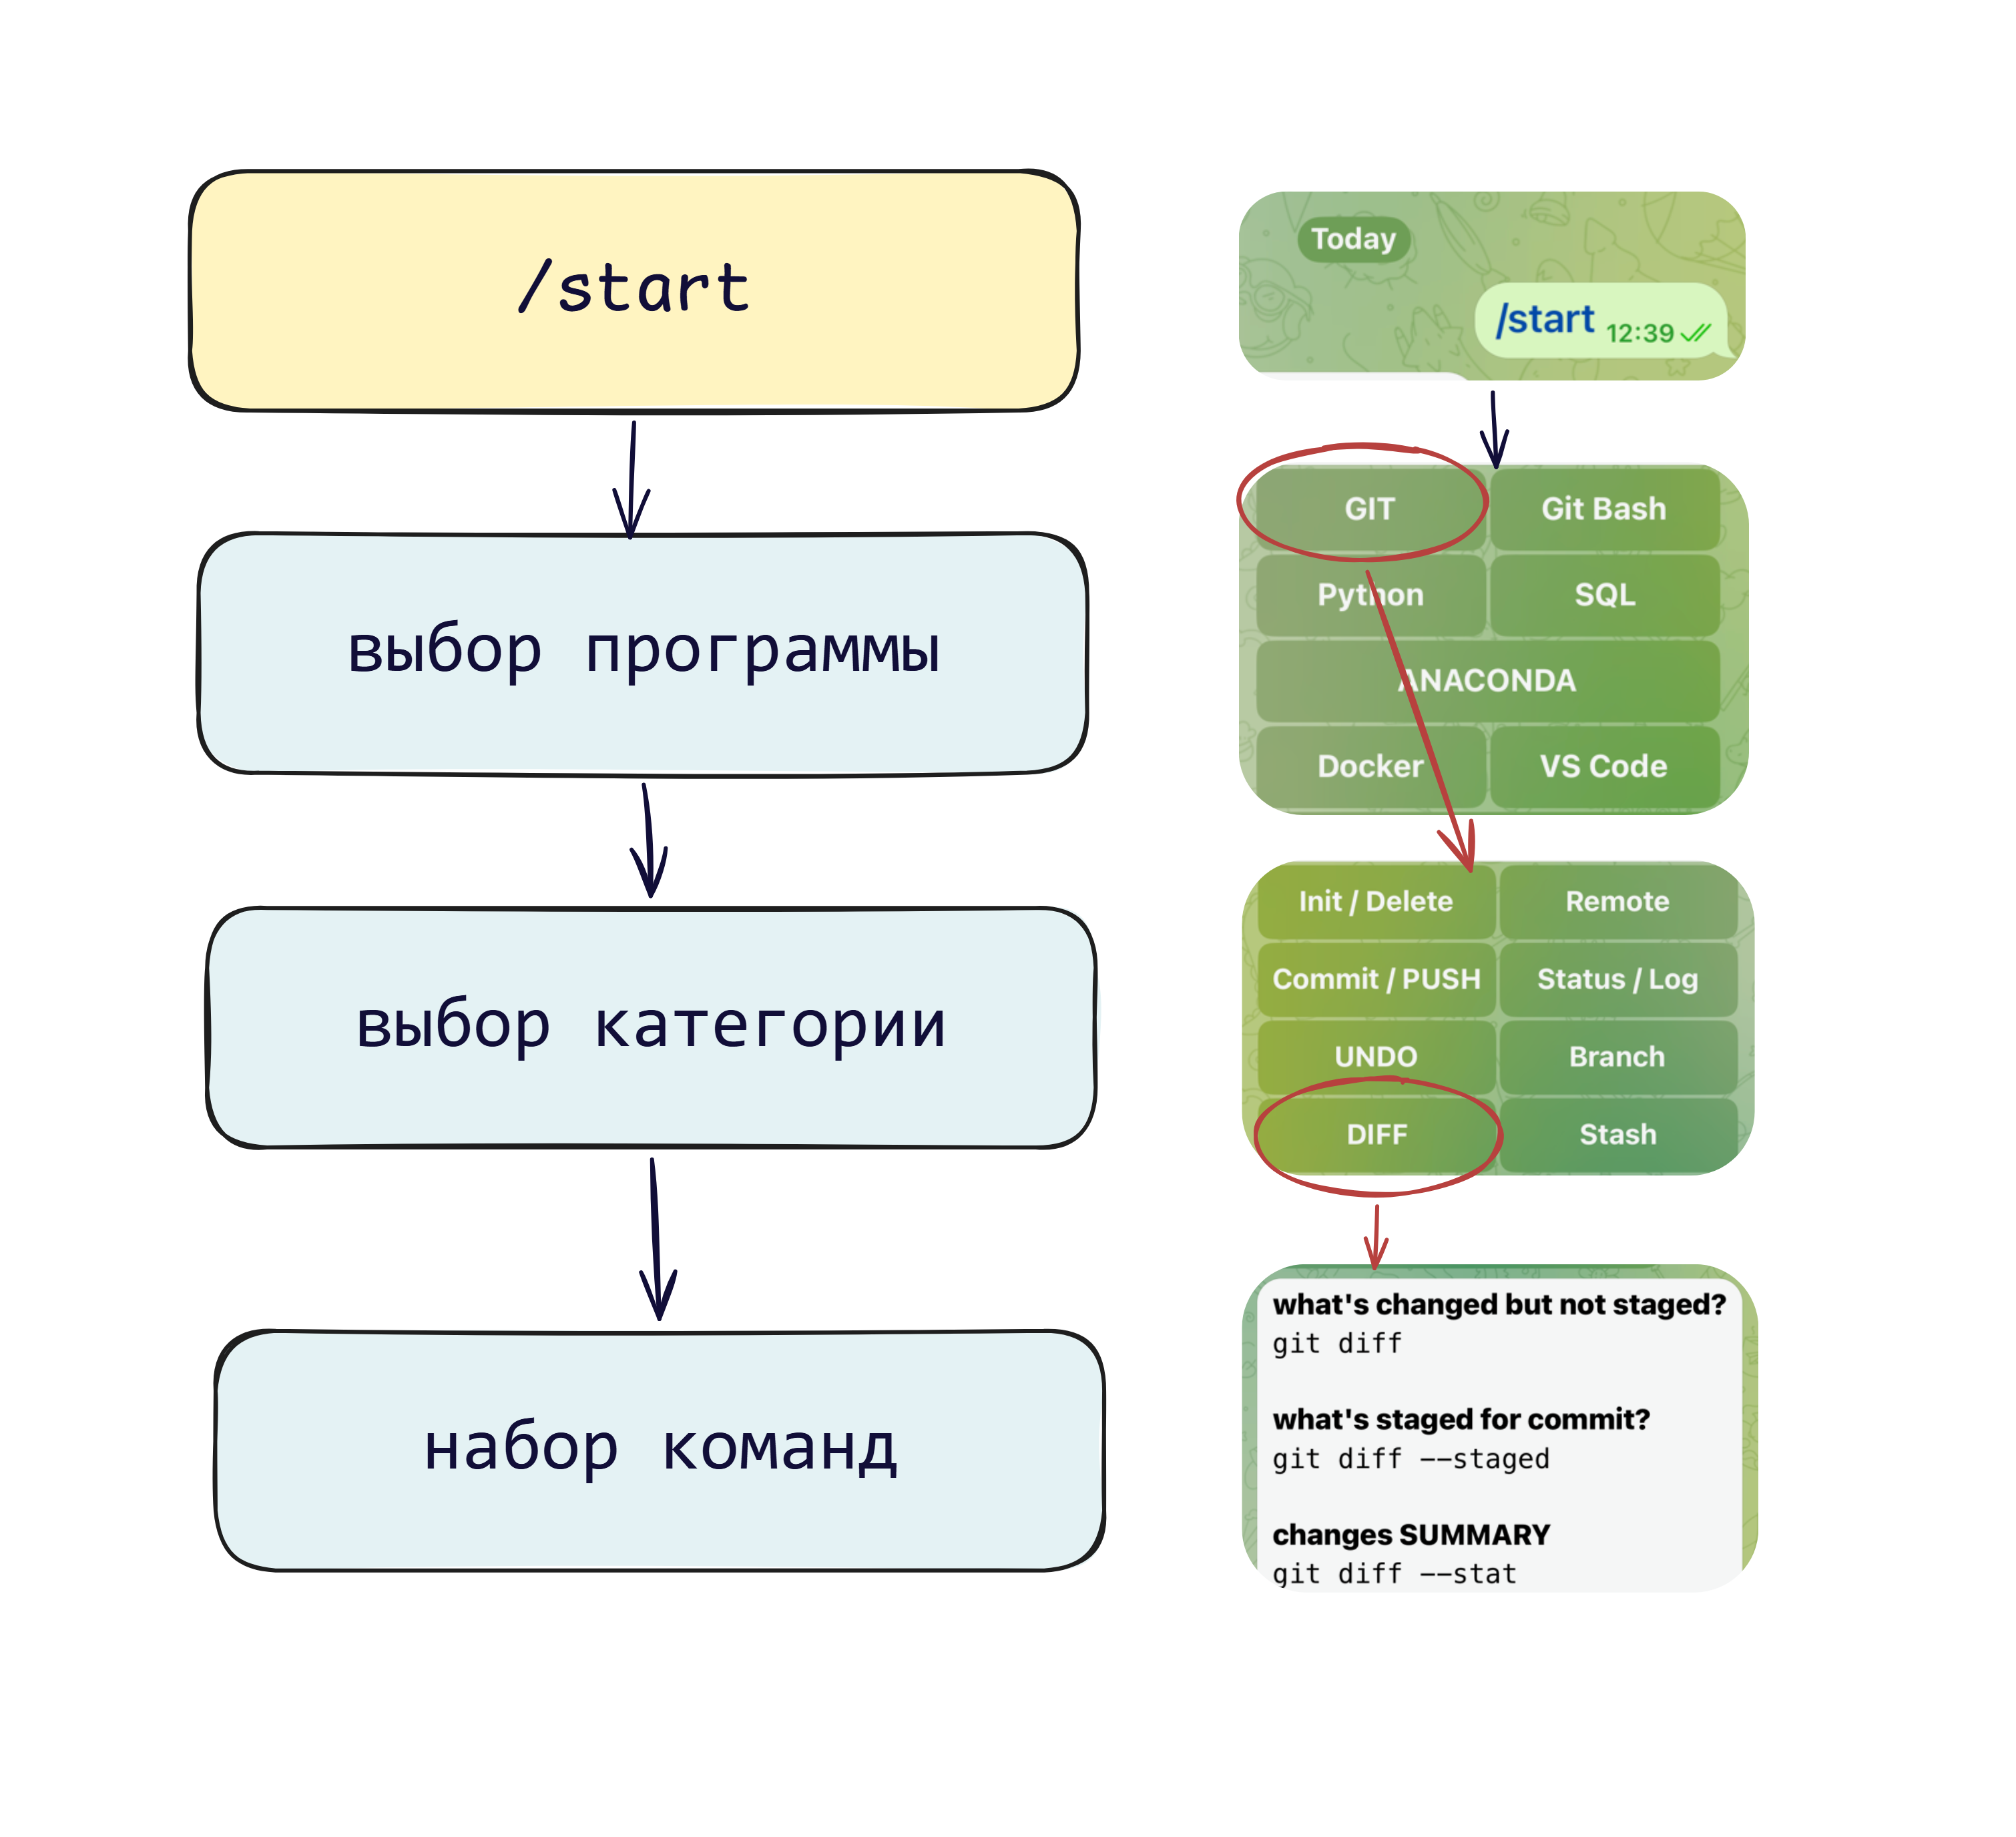
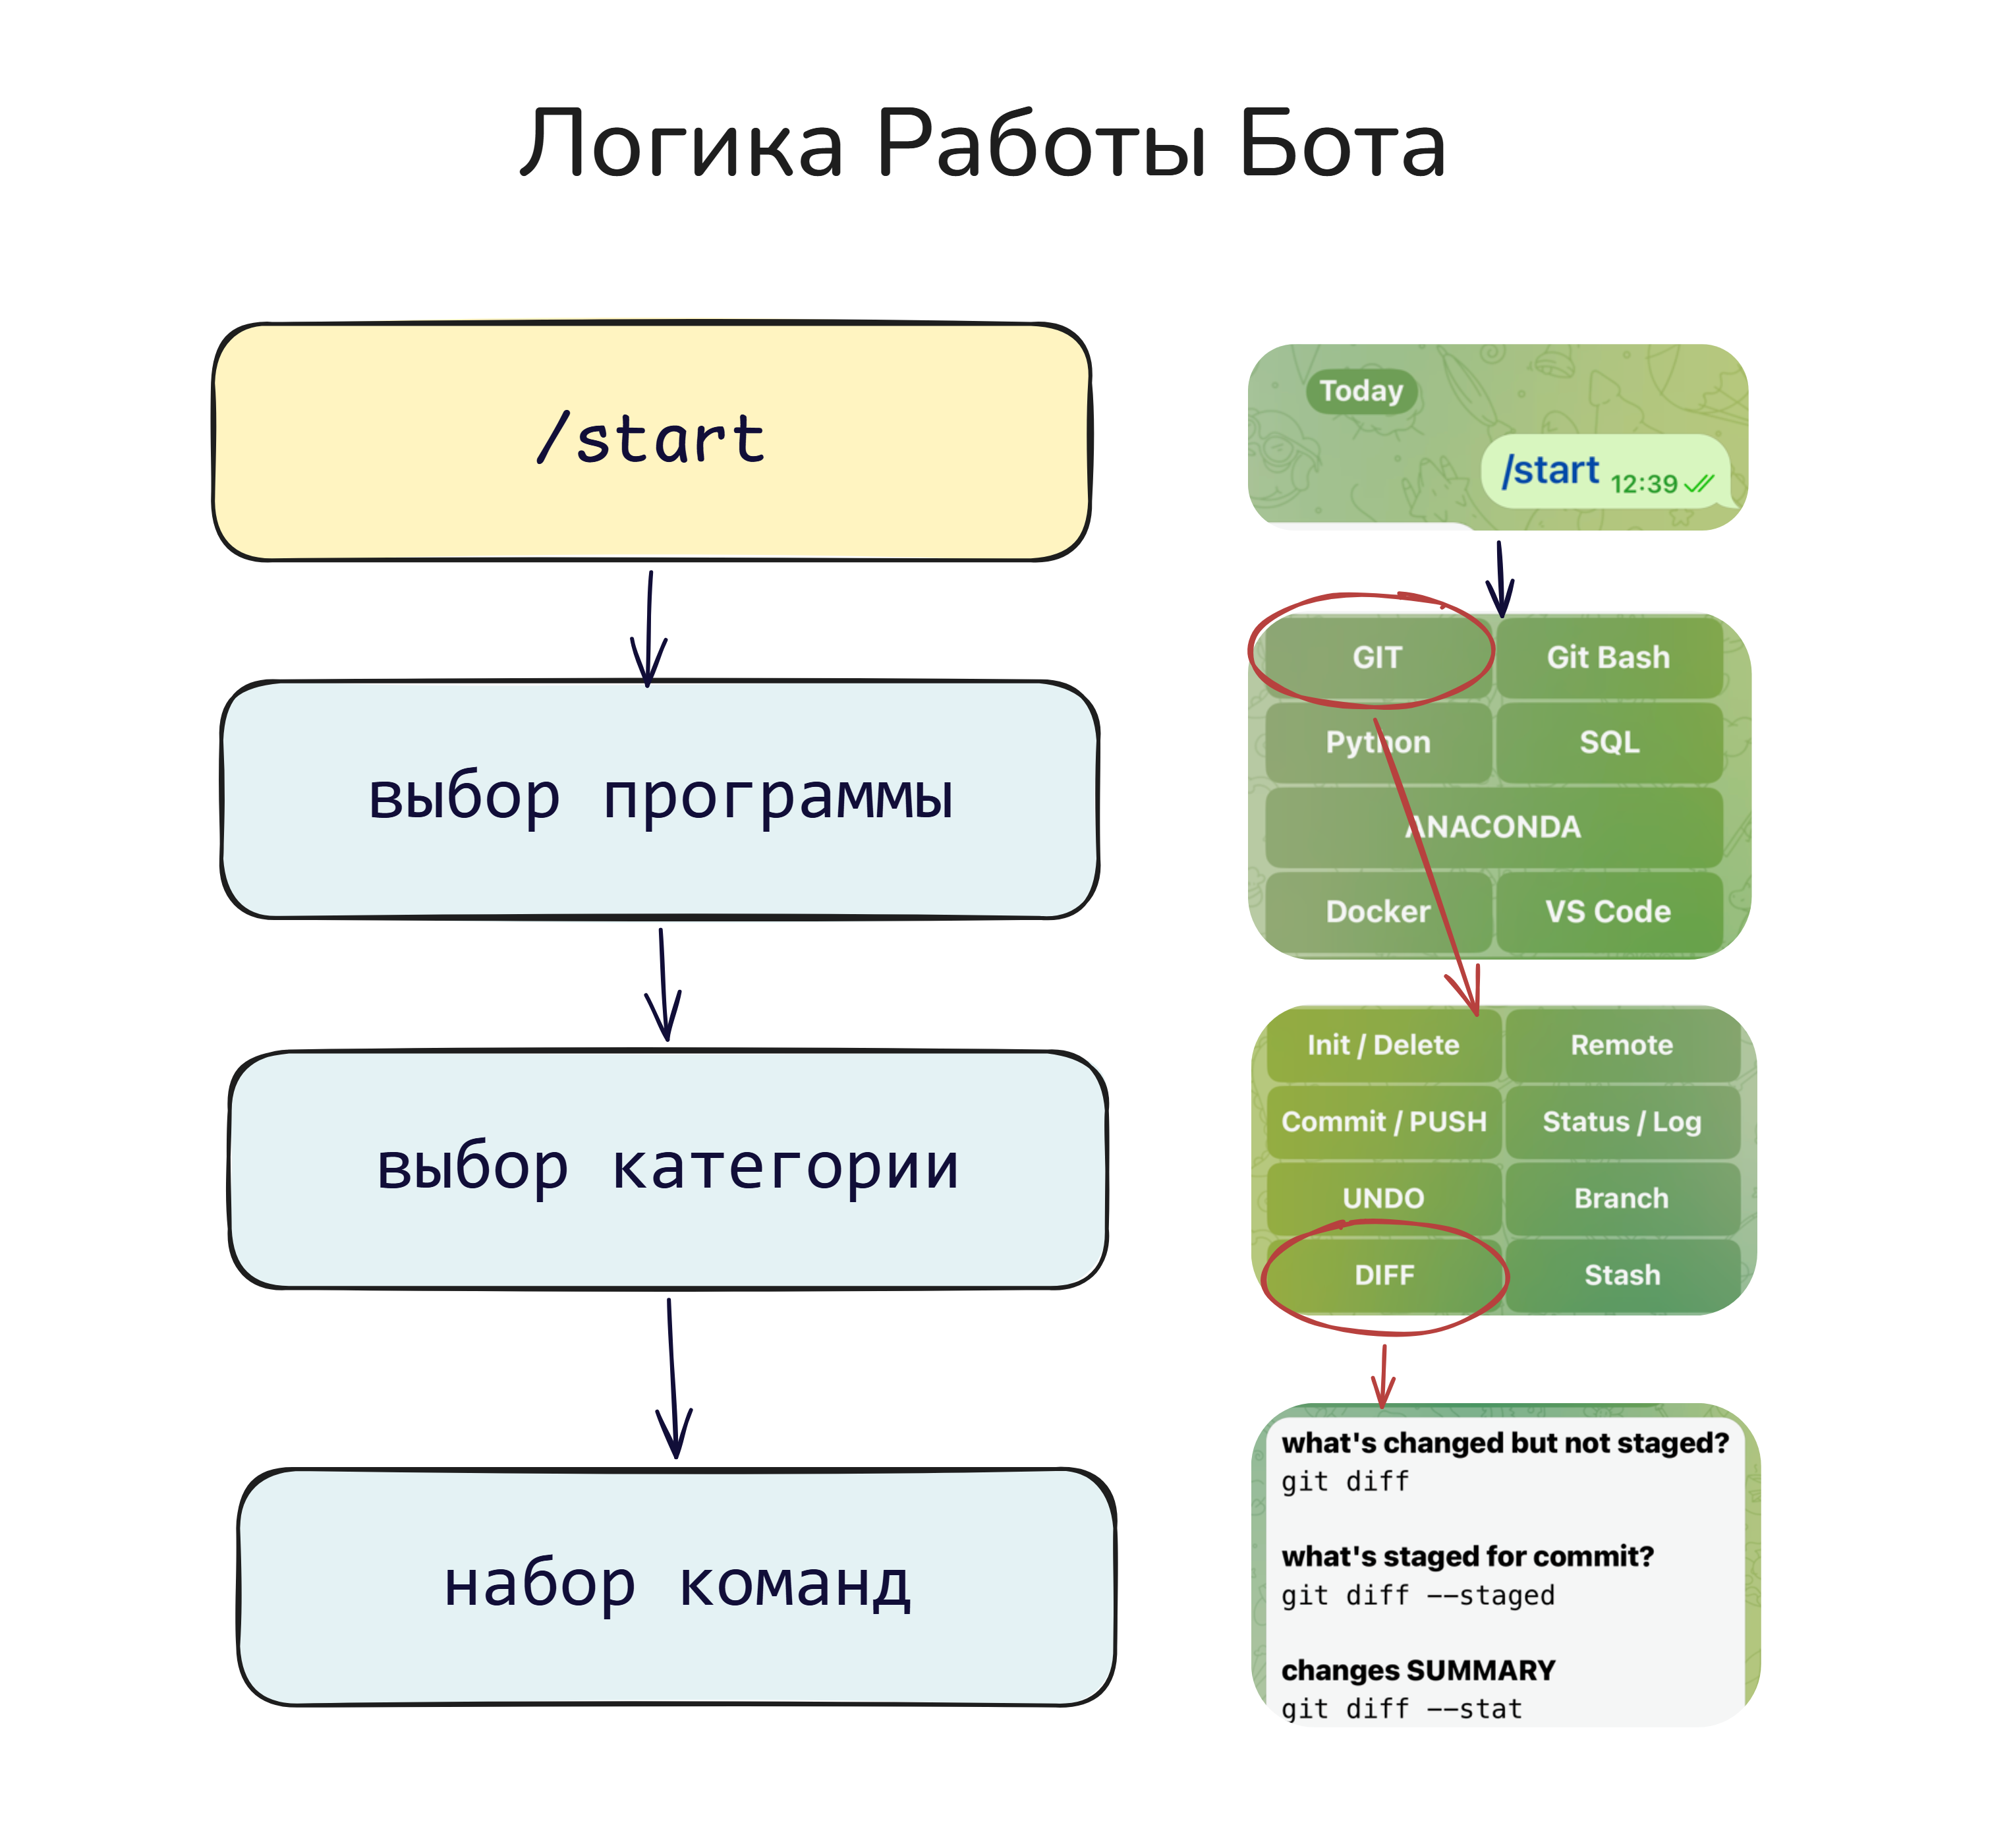
Refactor project description

diff --git a/collections/_projects/2025-03-30-command-bot-ru.md b/collections/_projects/2025-03-30-command-bot-ru.md
@@ -1,92 +1,121 @@
 ---
 date: 2025-03-30 22:04:35 +0300
 title: Command Bot
-subtitle: Telegram-бот - напоминалка комманд и горячих клавиш.
-tools: [TBL script]
+subtitle: Telegram-бот для быстрого доступа к командам и горячим клавишам.
+tools: [TBL script, API]
 category: [chatbot, helper]
-tags: [TBL script, chatbot, helper]
+tags: [TBL script, API, chatbot, helper]
 image: "/assets/projects/command-bot/cover.png"
 lang: ru
 ref: command-bot
 translated: true
 ---
 
-### Что это?
+### Описание
 
-Telegram-бот - справочник по командам и горячим клавишам для часто используемых технологий (Git, командная строка, Python, Conda, веб-разработка).
+**Telegram-бот - справочник по командам и горячим клавишам** для часто используемых технологий (Git, командная строка, Python, Conda, веб-разработка).
 
-Напоминалка. Позволяет быстро "вспоминать" нужные команды прямо в Telegram через заранее заданную структуру.
+**Напоминалка.** Позволяет быстро "вспоминать" нужные команды прямо в Telegram через заранее заданную структуру.
 
-![Иллюстрация работы Бота](/assets/projects/command-bot/run-bot-demo.gif){: width="600" height="auto"}
+<div class="image-container">
+  <img 
+    src="/assets/projects/command-bot/run-bot-demo.gif" 
+    alt="Иллюстрация работы Бота" 
+    width="600" 
+    height="auto">
+</div>
 
-### Контекст - Зачем?
+<p class="notation-s">Иллюстрация работы Бота</p>
 
-Поймала себя на том, что часто "гуглю" одни и те же команды. Часто нужно просто вспомнить какое-то конкретное слово или порядок слов.
+### Задача
 
-Поэтому захотелось создать напоминалку, чтобы иметь быстрый доступ к используемым мною командам.
+Частый поиск одних и тех же команд замедляет работу — понимаешь, что нужно, но не помнишь точную формулировку.\
+Захотелось создать напоминалку, чтобы **иметь быстрый доступ к используемым мною командам.**
 
-### Цель => Решение
+#### Пожелания:
 
 - Собрать часто используемые команды в одном месте.
-- Сделать доступ максимально быстрым (через Telegram).
-- Просто, быстро, желательно с бесплатным хостингом.
+- Сделать доступ максимально быстрым.
+- Простое решение, желательно с бесплатным хостингом.
 - Возможность быстро вносить правки/добавления.
-- Возможность расширяться и увеличивать количество команд.
+- Масштабируемость (возможность расширяться и увеличивать количество приложений, команд).
 
-Реализация через Telebothost.
+---
 
-- нужно ввести название бота и его индивидуальный токен
-- команды пишутся на специальном скрипте Tele Bot Lang (похож на JavaScript)
+### Решение
 
-![Логика создания Бота](/assets/projects/command-bot/bot-creation-logic.png){: .center width="600" height="auto"}
+Лёгкий справочник внутри Telegram с быстрым доступом к структурированным командам.
 
-### Логика - Как это работает
+<p class="remove-space-below">Реализация через Telebothost*.</p>
+<p class="notation-s">*хостинг-платформа специально для Telegram-ботов</p>
 
-![Пример использования Бота](/assets/projects/command-bot/bot-usage-example.gif){: width="600" height="auto"}
+<div class="image-container">
+  <img 
+    src="/assets/projects/command-bot/bot-usage-example.gif" 
+    alt="Пример использования Бота" 
+    width="600" 
+    height="auto">
+</div>
 
-<p class="notation">Пример: вспомнить команду для работы над сайтом - чтобы видеть изменения в реальном времени, в браузере</p>
-
-1. Основная команда `/start` выдает список тем/программ.
-2. Темы логически сгруппированы (Git, Python и т.д.).
-3. Структура иерархическая: Программа → Категория → Команды.
-
-![Логика работы Бота](/assets/projects/command-bot/bot-work-logic.png){: .center width="600" height="auto"}
-
-### Сбор и подготовка данных
-
-- Команды собраны из моих заметок
-- Упрощены и адаптированы для вывода в Telegram: без лишнего текста
+<p class="notation-s">Пример использования Бота: вспомнить команду для работы над сайтом, чтобы видеть изменения в реальном времени</p>
 
 ### Результат
 
-- ускорена работа с программами
-- снижено время поиска команд
+- ↑ ускорение работы / ↓ снижение времени поиска
 - удобно пользоваться
 
-### Сложности и решения
+---
 
-Изначально был выбран вариант: бот на Python => код хранится на GitHub => откуда он автоматически отправляется в Railway.app (хостинг) => бот становится активен.
+### Как это работает
+
+![Логика Создания Бота](/assets/projects/command-bot/bot-creation-logic.png){: width="300" height="auto"}
+
+Бот регистрируется в Telegram → На платформе Telebothost вносится информация о нем и создается его структура.
+
+**Структура иерархическая: Программа → Категория → Команды.**
+
+1. Основная команда `/start` выдает список программ (приложений).
+2. Выбор программы. Они логически сгруппированы (`Git`, `Python` и т.д.)
+3. Выбор категории.
+4. В каждой категории команды выпадают списком.
+
+![Логика Создания Бота](/assets/projects/command-bot/bot-work-logic.png){: width="400" height="auto"}
+
+#### Сбор и подготовка данных
+
+- Команды собраны из моих заметок + по памяти
+- Упрощены и адаптированы для вывода в Telegram: без лишнего текста
+- Регулярно дополняются в процессе использования
+
+#### Сложности и решения
+
+Изначально был выбран вариант: бот на Python → код хранится на GitHub → откуда отправляется в Railway.app (хостинг) → бот становится активен.
 Это рабочая схема, простая. Но.
 
-1. хостинг платный
+1. хостинг платный (это не минус, просто сейчас не подходит)
 2. для локальной разработки пришлось создавать второй бот, чтобы не было конфликтов
 
 Telebothost - это решение #2.
 
-**Плюсы**
+**Плюсы этого решения**
 
-- быстрый переход от "нет бота" => к "есть бот" (в считанные минуты)
+- быстрый переход от "нет бота" к → "есть бот" (в считанные минуты)
 - быстрые корректировки в реальном времени
 
 **Минусы**
 
-- не унифицировано - чтобы изменить место хостинга нужно будет снова переписывать код. Когда бот на Python - структура и файлы не меняются, может просто измениться площадка для размещения.
+- не унифицировано. Чтобы изменить место хостинга нужно будет снова переписывать код. Когда бот на Python - структура и файлы не меняются, может просто измениться площадка для размещения.
 - отсутствие контроля версий (нельзя локально на компьютере делать изменения и синхронизировать с хостингом).
-  Сейчас я локально веду свою структуру и храню в Github.
+  Сейчас я дополнительно сохраняю код в Github.
 
-### На будущее — Идеи для развития
+#### На будущее — Идеи развития
 
-В дальнейшем хочу перейти на свой сервер и вернуться к Python, чтобы было больше гибкости.
+- Реализовать поиск
+- Добавить лист "Часто используемые команды"
+- В дальнейшем хочу перейти на свой сервер и вернуться к `Python`, чтобы было больше гибкости.
+- Возможность отдельного копирования команд на телефоне
+
+---
 
 ### Инструменты
 
@@ -102,9 +131,9 @@ Telebothost - это решение #2.
 ### Файлы
 
 <div class="end-comment">
-  <p class="remove-space-below"><a href="https://t.me/TypeRunBot" target="_blank">[ссылка на бот в Telegram]</a></p>
-  <p class="remove-space-below"><a href="https://github.com/alinaaleks/command-bot" target="_blank">[ссылка на репозиторий Github]</a></p>
-  <p class="remove-space-below"><a href="https://console.telebothost.com/" target="_blank">[ссылка на Telebothost]</a></p>
+  <p class="remove-space-below"><a href="https://t.me/TypeRunBot" target="_blank">[ → ссылка на бот в Telegram]</a></p>
+  <p class="remove-space-below"><a href="https://github.com/alinaaleks/command-bot" target="_blank">[ → ссылка на репозиторий Github]</a></p>
+  <p class="remove-space-below"><a href="https://console.telebothost.com/" target="_blank">[ → ссылка на Telebothost]</a></p>
 </div>
 
 ---

diff --git a/collections/_projects/2025-03-30-command-bot.md b/collections/_projects/2025-03-30-command-bot.md
@@ -1,10 +1,10 @@
 ---
 date: 2025-03-30 22:04:35 +0300
 title: Command Bot
-subtitle: Telegram-bot reminder of commands and hotkeys.
-tools: [TBL script]
+subtitle: Telegram bot for quickly looking up commands and keyboard shortcuts.
+tools: [TBL script, API]
 category: [chatbot, helper]
-tags: [TBL script, chatbot, helper]
+tags: [TBL script, API, chatbot, helper]
 image: "/assets/projects/command-bot/cover.png"
 lang: en
 ref: command-bot